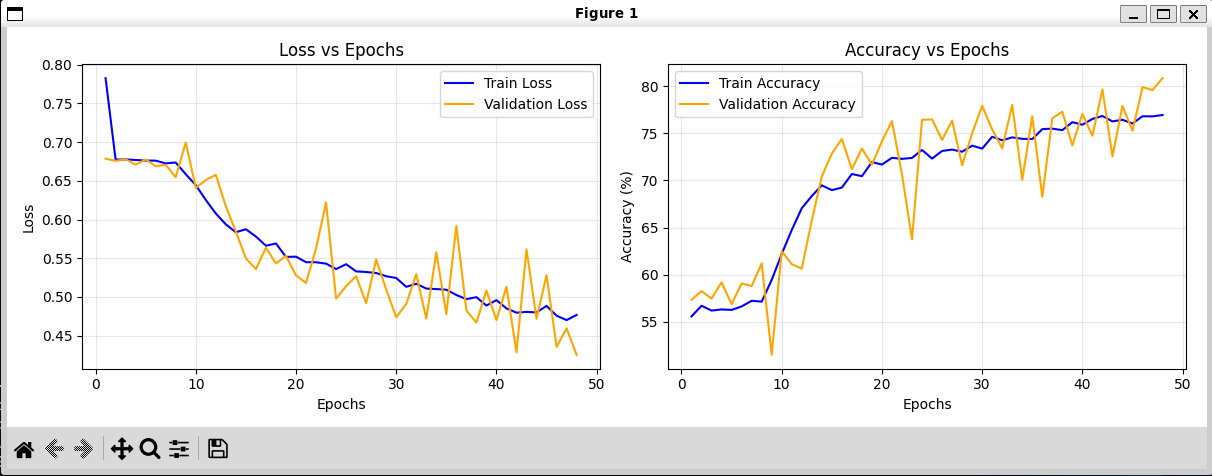
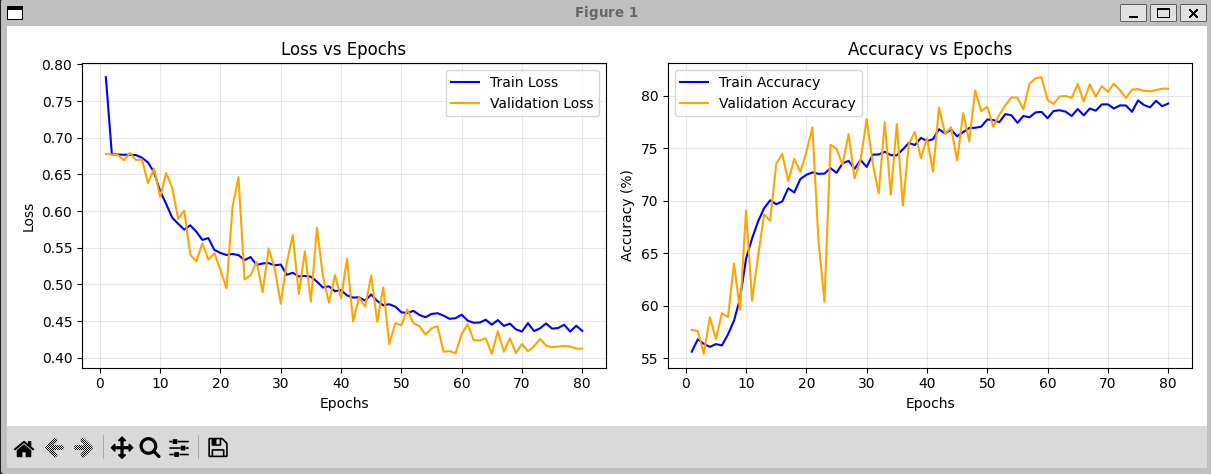
Achieve 80%+ accuracy over 40 epochs. Update README.md to reflect this change. Update the trianing graph.

diff --git a/recognition/Alzheimers_GFNet_47437553/README.md b/recognition/Alzheimers_GFNet_47437553/README.md
@@ -91,7 +91,7 @@ The preprocessed dataset can be found on the `rangpur` cluster provided to stude
     └── AD/
 ```
 
-## Results Discussion ( SECTION IN PROGRESS )
+## Results Discussion
 
 The model achieves **80.2% test accuracy**, exceeding the required 80% threshold. The training curves (Figure 2) show:
 
@@ -99,12 +99,14 @@ The model achieves **80.2% test accuracy**, exceeding the required 80% threshold
 - **Generalization**: Validation accuracy closely tracks training accuracy, indicating good generalization without significant overfitting
 - **Stability**: Low variance in validation metrics suggests robust learning
 
+The higher validation accuracy suggests that the training set augmentations made the dataset harder to infer than the validation set itself. Both the Training loss and Validation loss converged towards a 0.40 value with minimal difference between the two indicating that there was minimal overfitting on the trianing set.
+
 ![Training Progress](imgs/TrainingGraphs.png)
 *Figure 2. Training and validation loss/accuracy curves showing model convergence over 50 epochs*
 
 ### Preprocessing Pipeline
 
-Looking at the dataset.py code for the ADNI Alzheimer's classification project, here's a brief description of the preprocessing used:
+The following techniques were used for data preprocessing:
 
 ## Data Preprocessing
 
@@ -190,7 +192,6 @@ alzheimer_classification/
 ├── train.py            # Training script with validation
 ├── predict.py          # Inference on new samples
 ├── README.md           # This file
-└── requirements.txt    # Dependency list
 ```
 
 ### Training the Model
